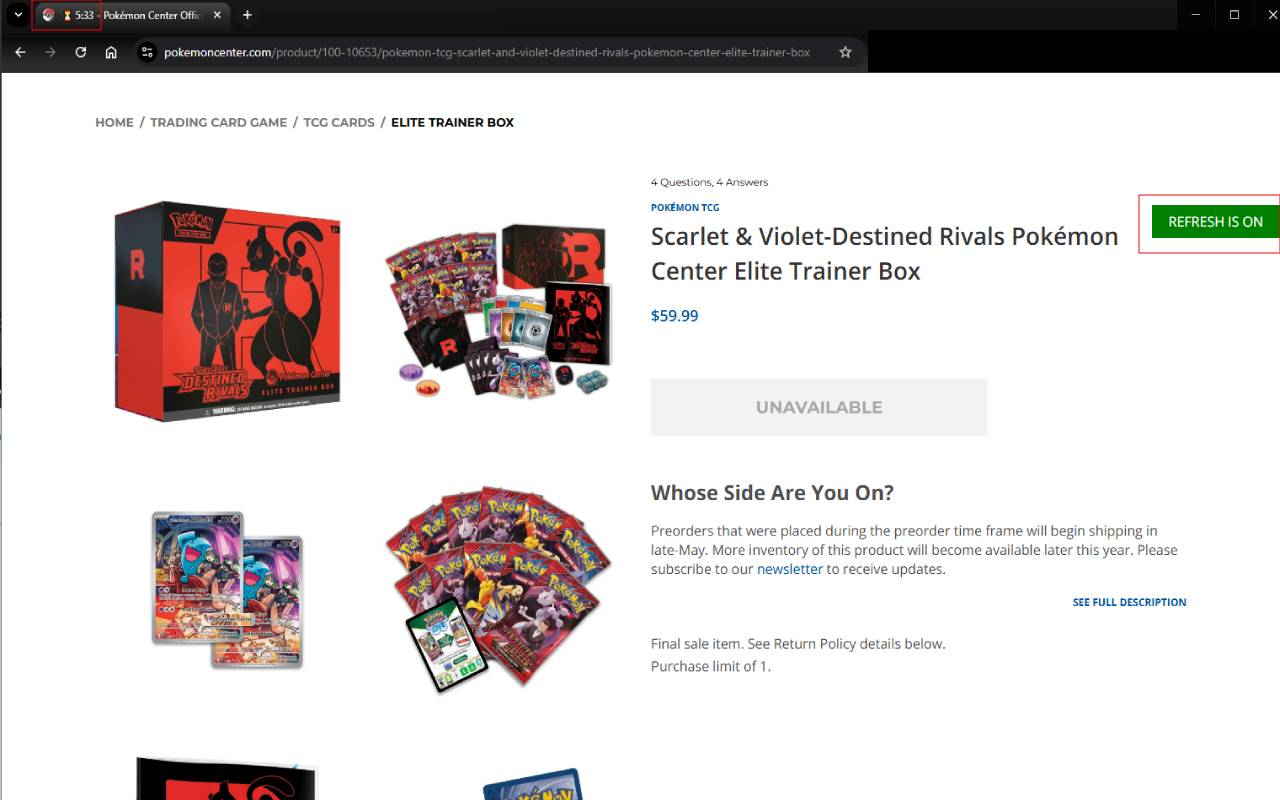
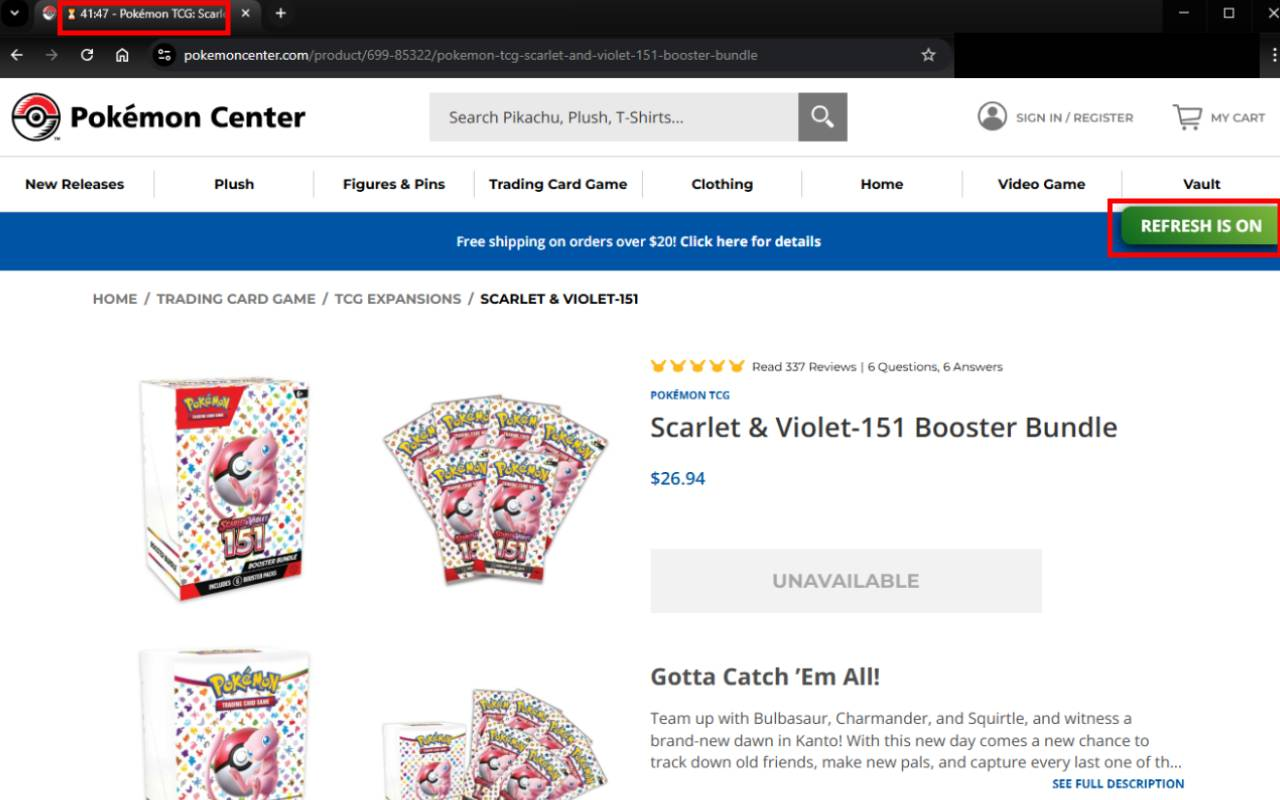
refactored, update css

diff --git a/auto_refresh.js b/auto_refresh.js
@@ -1,101 +1,100 @@
-	let countdownInterval;
-    let timerEnabled = true;
-    let originalTitle = "";
+let countdownInterval;
+let timerEnabled = true;
+let originalTitle = "";
 
-    let currentUrl = location.href;
+let currentUrl = location.href;
 
-    const observer = new MutationObserver(() => {
-        if (location.href !== currentUrl) {
-            currentUrl = location.href;
-            handleUrlChange(currentUrl); // Call your function here
-        }
-    });
+const observer = new MutationObserver(() => {
+  if (location.href !== currentUrl) {
+    currentUrl = location.href;
+    handleUrlChange(currentUrl); // Call your function here
+  }
+});
 
-    // Create Toggle Button
-    const button = document.createElement('button');
-    button.id = 'refreshToggleButton';
-    button.textContent = 'REFRESH IS ON'; // Default ON
-    button.style.position = 'fixed';
-    button.style.top = '0';
-    button.style.right = '0';
-    button.style.marginTop = '10%';
-    button.style.padding = '10px 20px';
-    button.style.backgroundColor = 'green';
-    button.style.color = 'white';
-    button.style.border = 'none';
-    button.style.cursor = 'pointer';
-    button.style.zIndex = '9999';
-	button.style.borderRadius = '10px 0px 0px 10px';;
+// Create Toggle Button
+const button = document.createElement("button");
+button.id = "sv-refresh-toggle-button";
+button.textContent = "REFRESH IS ON"; // Default ON
 
-    button.addEventListener('click', () => {
-        toggleTimer();
-    });
+button.addEventListener("click", () => {
+  toggleTimer();
+});
 
-    document.body.appendChild(button);
+document.body.appendChild(button);
 
-    observer.observe(document.body, { childList: true, subtree: true });
+observer.observe(document.body, { childList: true, subtree: true });
 
-    function handleUrlChange(url) {
-        if(url?.includes("https://www.pokemoncenter.com/product")){
-            button.style.display = "block";
-            if(timerEnabled){
-                scheduleRefresh();
-            }
-        }else{
-            clearInterval(countdownInterval); // Stop countdown
-            document.title = `${originalTitle}`;
-            button.style.display = "none";
-        }
+function handleUrlChange(url) {
+  if (url?.includes("https://www.pokemoncenter.com/product")) {
+    button.style.display = "block";
+    if (timerEnabled) {
+      scheduleRefresh();
+    }
+  } else {
+    clearInterval(countdownInterval); // Stop countdown
+    document.title = `${originalTitle}`;
+    button.style.display = "none";
+  }
+}
+
+function init() {
+  originalTitle = document.title; // Save the original title
+  scheduleRefresh(); // Start countdown timer
+  handleUrlChange(window.location.href);
+}
+
+function toggleTimer() {
+  timerEnabled = !timerEnabled;
+  updateTimer();
+}
+
+function turnTimerOff() {
+  timerEnabled = false;
+  updateTimer();
+}
+
+function updateTimer() {
+  button.textContent = timerEnabled ? "REFRESH IS ON" : "REFRESH IS OFF";
+  button.classList.toggle("sv-button-toggle");
+
+  if (!timerEnabled) {
+    clearInterval(countdownInterval); // Stop countdown
+    document.title = `⏸ Paused - ${originalTitle}`;
+  } else {
+    scheduleRefresh(); // Resume countdown
+  }
+}
+
+function scheduleRefresh() {
+  const now = new Date();
+  const nextRefresh = new Date(now);
+
+  // Set next refresh to the next xx:59:59
+  nextRefresh.setHours(now.getHours() + 1);
+  nextRefresh.setMinutes(0);
+  nextRefresh.setSeconds(-1);
+
+  function updateCountdown() {
+    if (!timerEnabled) return;
+
+    const remainingTime = nextRefresh - new Date();
+
+    if (remainingTime <= 0) {
+      document.title = "Refreshing...";
+      location.reload();
+      return;
     }
 
-    function init(){
-        originalTitle = document.title; // Save the original title
-        scheduleRefresh(); // Start countdown timer
-        handleUrlChange(window.location.href);
-    }
+    const minutes = Math.floor(remainingTime / 60000); // Convert ms to minutes
+    const seconds = Math.floor((remainingTime % 60000) / 1000); // Remaining seconds
 
-   function toggleTimer(){
-        timerEnabled = !timerEnabled;
-        button.textContent = timerEnabled ? 'REFRESH IS ON' : 'REFRESH IS OFF';
-        button.style.backgroundColor = timerEnabled ? 'green' : 'red';
+    document.title = `⏳ ${minutes}:${seconds
+      .toString()
+      .padStart(2, "0")} - ${originalTitle}`;
+  }
 
-        if (!timerEnabled) {
-            clearInterval(countdownInterval); // Stop countdown
-            document.title = `⏸ Paused - ${originalTitle}`;
-        } else {
-            scheduleRefresh(); // Resume countdown
-        }
-    }
+  clearInterval(countdownInterval); // Clear previous timer
+  countdownInterval = setInterval(updateCountdown, 1000); // Update every second
+}
 
-    function scheduleRefresh() {
-        const now = new Date();
-        const nextRefresh = new Date(now);
-
-        // Set next refresh to the next xx:59:59
-        nextRefresh.setHours(now.getHours() + 1);
-        nextRefresh.setMinutes(0);
-        nextRefresh.setSeconds(-1);
-
-        function updateCountdown() {
-            if (!timerEnabled) return;
-
-            const remainingTime = nextRefresh - new Date();
-
-            if (remainingTime <= 0) {
-                document.title = 'Refreshing...';
-                location.reload();
-                return;
-            }
-
-            const minutes = Math.floor(remainingTime / 60000); // Convert ms to minutes
-            const seconds = Math.floor((remainingTime % 60000) / 1000); // Remaining seconds
-
-            document.title = `⏳ ${minutes}:${seconds.toString().padStart(2, '0')} - ${originalTitle}`;
-        }
-
-        clearInterval(countdownInterval); // Clear previous timer
-        countdownInterval = setInterval(updateCountdown, 1000); // Update every second
-    }
-
-    
-    init();
+init();

diff --git a/queue_helper.js b/queue_helper.js
@@ -6,6 +6,11 @@ function updatePosition(pos, ttw) {
   positionElement.textContent = `Position in line: ${pos}${waitTimeText}`;
 }
 
+function showQueueError() {
+  positionElement.textContent =
+    "There was an error loading the queue. It'll automatically try again.";
+}
+
 function callAPI() {
   fetch("https://www.pokemoncenter.com/_Incapsula_Resource?SWWRGTS=868")
     .then((response) => response.json())
@@ -13,48 +18,31 @@ function callAPI() {
       if (data && data.pos) {
         updatePosition(data.pos, data.ttw);
       } else {
-        updatePosition("Unknown", "N/A");
+        showQueueError();
       }
     })
     .catch((error) => {
       console.log("Error calling API:", error);
-      updatePosition("N/A", "N/A");
-      clearInterval(interval);
+      showQueueError();
     });
 }
 
 function hasIframeInBody() {
-  const iframes = document.body.getElementsByTagName("iframe");
-  for (const iframe of iframes) {
-    if (iframe.title === "DataDome CAPTCHA") {
-      return false;
-    }
-  }
-
-  return false;
+  return (
+    document.body && document.body.querySelector("iframe#main-iframe") !== null
+  );
 }
 
 function addDiv() {
-  positionElement.id = "pokemon-center-queue-helper";
-  positionElement.style.position = "fixed";
-  positionElement.style.top = "50%";
-  positionElement.style.left = "50%";
-  positionElement.style.transform = "translate(-50%, -50%)";
-  positionElement.style.backgroundColor = "white";
-  positionElement.style.color = "#000";
-  positionElement.style.padding = "10px 20px";
-  positionElement.style.fontSize = "22px";
-  positionElement.style.fontWeight = "bold";
-  positionElement.style.zIndex = "9999";
-  positionElement.style.borderRadius = "10px";
-  positionElement.style.border = "2px solid #000";
-  positionElement.style.boxShadow = "5px 5px 10px #000";
+  positionElement.id = "sv-pokemon-center-queue-helper";
+  positionElement.textContent = "Loading queue...";
   document.body.appendChild(positionElement);
 }
 
 let interval;
 if (hasIframeInBody()) {
   addDiv();
+  turnTimerOff();
   callAPI(); // Initial call
-  interval = setInterval(callAPI, 60000); // Repeat every minute
+  interval = setInterval(callAPI, 30000); // Repeat every 30 seconds
 }

diff --git a/style.css b/style.css
@@ -1,0 +1,85 @@
+#sv-refresh-toggle-button {
+  position: fixed;
+  top: 0px;
+  right: 0px;
+  margin-top: 10%;
+  padding: 10px 20px;
+  color: white;
+  border: none;
+  cursor: pointer;
+  z-index: 9999;
+  border-radius: 10px 0px 0px 10px;
+  background-size: 200% auto;
+  -webkit-animation: gradient_move 3s ease infinite;
+  animation: gradient_move 3s ease infinite;
+  font-size: 17px;
+  font-weight: bold;
+  background: -webkit-linear-gradient(
+      225deg,
+      rgb(34, 163, 83),
+      rgb(182, 221, 74),
+      rgb(7, 101, 29)
+    )
+    0% 0% / 300% 300%;
+  box-shadow: 0px 4px 14px #000;
+}
+
+/* button off */
+.sv-button-toggle {
+  background: -webkit-linear-gradient(
+      225deg,
+      rgb(255 255 255),
+      rgb(53 138 100),
+      rgb(95 113 103)
+    )
+    0% 0% / 300% 300% !important;
+}
+
+#sv-pokemon-center-queue-helper {
+  position: fixed;
+  top: 50px;
+  left: 50%;
+  transform: translate(-50%, 0);
+  box-shadow: 0px 6px 14px #000;
+  background: -webkit-linear-gradient(
+      225deg,
+      rgb(232, 255, 138),
+      rgb(250, 138, 2),
+      rgb(251, 255, 0)
+    )
+    0% 0% / 300% 300%;
+  -webkit-animation: gradient_move 3s ease infinite;
+  animation: gradient_move 3s ease infinite;
+  color: rgb(26 26 26);
+  padding: 10px 20px;
+  font-size: 22px;
+  font-weight: bold;
+  z-index: 9999;
+  border-radius: 10px;
+  border: 2px solid rgb(0, 0, 0);
+  box-shadow: rgb(0, 0, 0) 5px 5px 10px;
+}
+
+@-webkit-keyframes gradient_move {
+  0% {
+    background-position: 0% 92%;
+  }
+  50% {
+    background-position: 100% 9%;
+  }
+  100% {
+    background-position: 0% 92%;
+  }
+}
+
+@keyframes gradient_move {
+  0% {
+    background-position: 0% 92%;
+  }
+  50% {
+    background-position: 100% 9%;
+  }
+  100% {
+    background-position: 0% 92%;
+  }
+}
